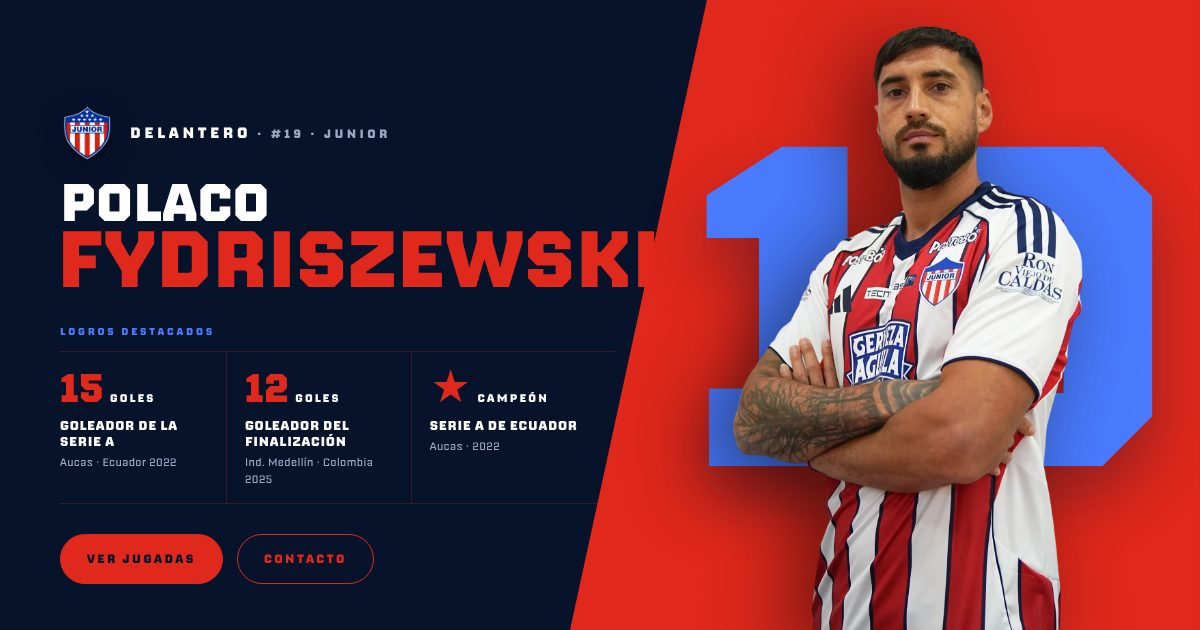
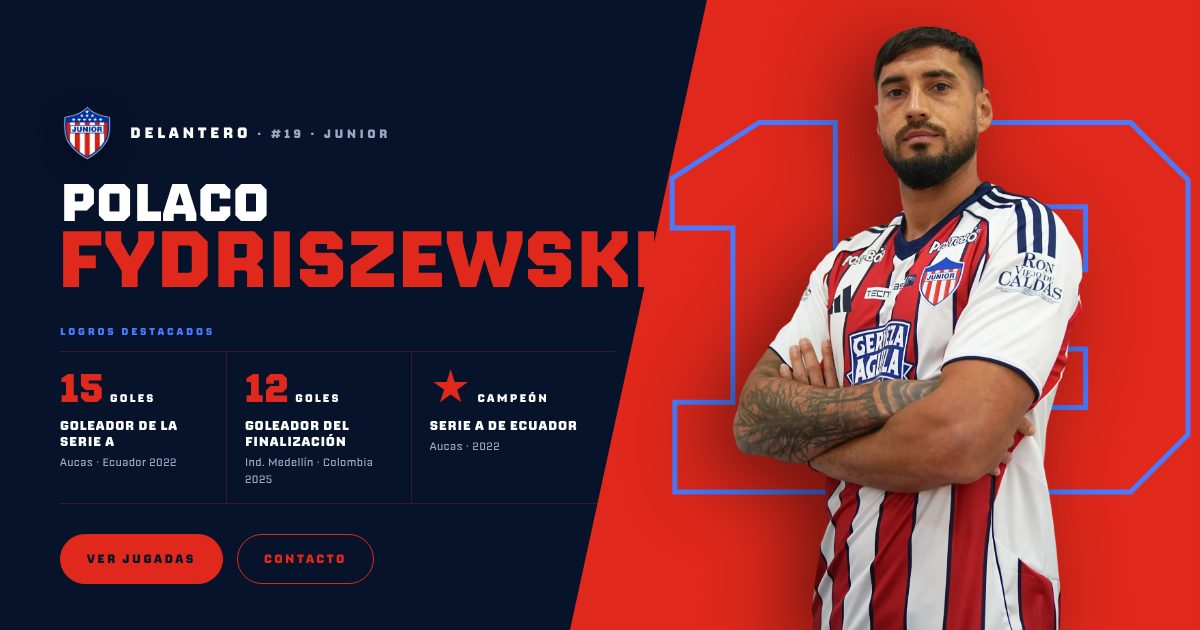
Hero: dorsal 19 más grande, solo con borde azul
Claude-Session: https://claude.ai/code/session_01SrwUJP1tggvyynQurAsrec

Changed region(s): [[0.8017, 0.181, 1.0, 0.8143], [0.555, 0.181, 0.7092, 0.8143]]

diff --git a/src/components/Hero/HeroSplit.jsx b/src/components/Hero/HeroSplit.jsx
@@ -5,7 +5,7 @@ import { playerData } from '../../data/playerData'
 
 // Hero "Split editorial": a la izquierda escudo + posición, nombre, logros
 // destacados y botones; a la derecha un panel rojo en diagonal con el recorte.
-// El dorsal va grande y en azul sobre el panel rojo, detrás del jugador.
+// El dorsal va grande y en azul sobre el panel rojo, detrás del jugador, solo con borde.
 
 const EASE = 'cubic-bezier(0.23,1,0.32,1)'
 
@@ -201,9 +201,9 @@ export default function HeroSplit() {
             fontWeight="bold"
             lineHeight={0.8}
             letterSpacing="-0.04em"
-            color="brand.dorado"
-            fontSize={{ base: 'min(64vw, 300px)', lg: 'clamp(320px, 38vw, 640px)' }}
-            textShadow="0 30px 60px rgba(7,18,43,.35)"
+            color="transparent"
+            fontSize={{ base: 'min(86vw, 420px)', lg: 'clamp(400px, 44vw, 780px)' }}
+            sx={{ WebkitTextStroke: { base: '3px #4A7BFF', lg: '5px #4A7BFF' } }}
           >
             {p.number}
           </Text>
